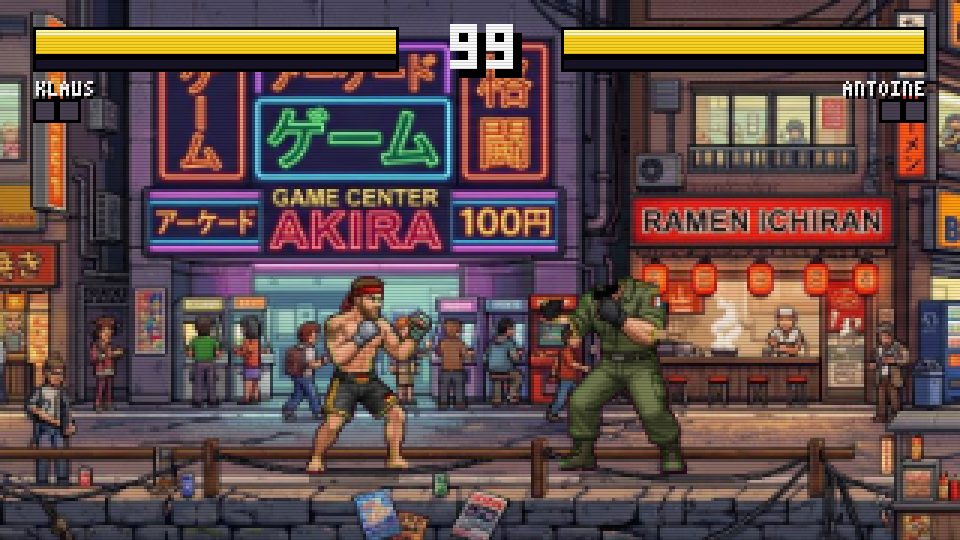
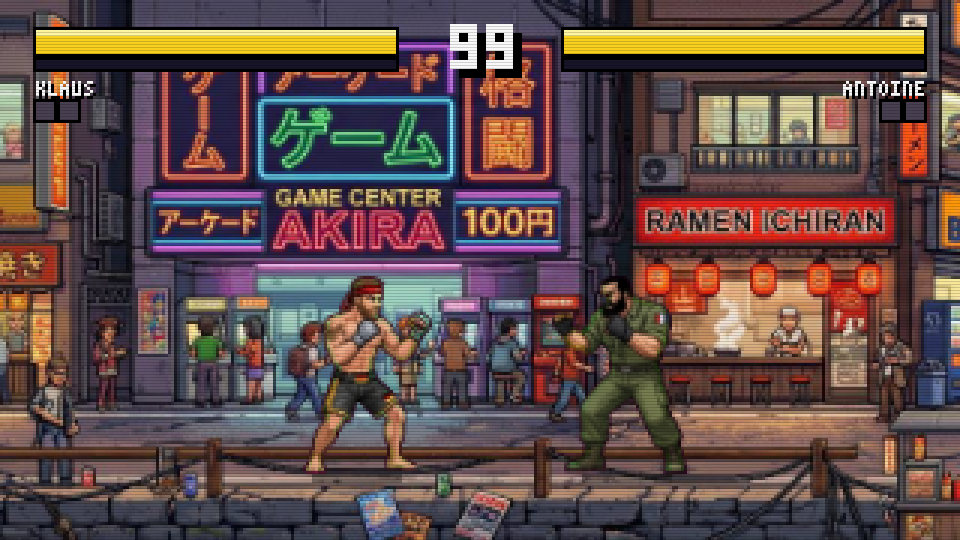
Measure "thinner than a limb" per sheet, not in fixed pixels
Antoine imported decapitated: every pose lost the top of his head at a
flat line across the hairline.

The importer tells a drawn frame line from a limb by eroding - whatever
dissolves was thin. That threshold was a constant five pixels. Generators
do not all draw at the same size, though, and Antoine's sheet is drawn
about half as thick as Klaus's and Maxim's: the erode that dissolves a 2px
box dissolved his head with it. A dissolved head then floats free of the
shoulders exactly like a box edge floats free of everything, so it was
condemned as a frame line and thrown away.

The threshold is measured per sheet now - the radius at which half the
artwork has eroded away, which tracks limb thickness and ignores how many
poses are on the sheet or how much of it is background. It comes out at 4
for Klaus, 3 for Antoine and 6 for Maxim.

Falling out of the same fix: Antoine has no projectile picture of his own.
His throw and the arc it leaves are one drawing in one box, and the old
threshold was eroding the arc enough to cut that one drawing into two
poses. His SHEET_ORDER loses the `fireballA` entry (23 poses -> 22) and he
keeps the drawn grenade, like Maxim keeps the drawn molotov.

sheet-test gains a check that every fighting stance still tapers to a
head. That is a property of any standing figure whatever the art, and it
is exactly the shape a decapitated import loses: the pose then starts at
the shoulders, its widest point. Antoine measured 0.57 of his widest row
[…]

diff --git a/dojo-duel/js/spritesheet.js b/dojo-duel/js/spritesheet.js
@@ -14,8 +14,8 @@ window.DD = window.DD || {};
   const STAND_H = 66;         // height of the fighting stance, in game pixels
   const TOL = 46;             // background color tolerance (0-255 per channel)
   const EDGE_BAND = 6;        // how far a soft edge may reach into the pose
-  const THIN = 5;             // anything thinner than this is a drawn line,
-                              // not a limb
+  const THIN_MIN = 3;         // anything thinner than this is a drawn line,
+  const THIN_MAX = 8;         // not a limb - measured per sheet, see thinness()
   const BRIDGE = 3;           // close gaps this wide when a removed line cut
                               // a pose in two - wide enough for a drawn rule
                               // even where it crosses a figure's shins,
@@ -32,9 +32,10 @@ window.DD = window.DD || {};
   // The roster sheets, in the order each generator laid them out. See the
   // pose list in assets/README.md; `null` is a frame no move uses.
   //
-  // `fireballA` is not a pose at all: two of the sheets carry the
-  // projectile itself as its own picture, which is exactly what the game
-  // needs and better than the hand-drawn one it replaces.
+  // `fireballA` is not a pose at all: Klaus's sheet carries the projectile
+  // itself as its own picture, which is exactly what the game needs and
+  // better than the hand-drawn one it replaces. The other two draw their
+  // effect into the throwing pose, so they keep the drawn projectile.
   const SHEET_ORDER = {
     klaus: [
       'idle0', 'idle1', 'walk1', 'run0', 'pun1', 'upp0', 'cpun0',
@@ -42,9 +43,12 @@ window.DD = window.DD || {};
       'crouch0', 'cblock0', 'block0', 'hurt0', 'kof0', 'win0', 'ko0',
       'grab0', 'lift0', 'slam0',
     ],
+    // Antoine's throw and the arc it leaves are one drawing in one box, so
+    // unlike Klaus he has no projectile picture of his own and keeps the
+    // drawn grenade.
     antoine: [
       'idle0', 'idle1', 'walk1', 'run0', 'pun1', 'upp0', 'cpun0',
-      'kick1', 'swp0', 'air0', 'rush0', 'sp1', 'fireballA', 'jmp1',
+      'kick1', 'swp0', 'air0', 'rush0', 'sp1', 'jmp1',
       'crouch0', 'block0', 'hurt0', 'kof0', 'win0', 'ko0',
       'grab0', 'lift0', 'slam0',
     ],
@@ -140,6 +144,32 @@ window.DD = window.DD || {};
   const erode = (m, w, h, r) => morph(m, w, h, r, true);
   const dilate = (m, w, h, r) => morph(m, w, h, r, false);
 
+  // How thick this sheet's artwork is drawn, as a radius.
+  //
+  // The tests below tell a drawn line from a limb by eroding: whatever
+  // dissolves was thin. That threshold cannot be a fixed number of pixels,
+  // because generators do not all draw at the same size. An erode wide
+  // enough to dissolve a 2px box on a sheet drawn large also dissolves a
+  // whole head on a sheet drawn small - and a head that has dissolved
+  // floats free of the shoulders exactly like a box edge floats free of
+  // everything, so it is condemned and the fighter comes out decapitated.
+  //
+  // Measured as the radius at which half the artwork has eroded away.
+  // That tracks limb thickness and does not care how many poses are on
+  // the sheet or how much of it is background.
+  function thinness(drawn, w, h) {
+    let full = 0;
+    for (let p = 0; p < w * h; p++) full += drawn[p];
+    if (!full) return THIN_MIN;
+    for (let r = THIN_MIN; r < THIN_MAX; r++) {
+      const e = erode(drawn, w, h, r);
+      let left = 0;
+      for (let p = 0; p < w * h; p++) left += e[p];
+      if (left * 2 < full) return r;
+    }
+    return THIN_MAX;
+  }
+
   // Drawn rules and boxes, found by shape rather than colour. Colour only
   // works when the generator picks something that contrasts with the art;
   // a dark box edge and a dark outline land in the same bucket, and then
@@ -200,8 +230,8 @@ window.DD = window.DD || {};
   // badly: a sheet whose box frames are drawn in the same dark tone as the
   // characters' own outlines condemns the outlines with the boxes, and
   // every figure falls apart into its interior colour patches.
-  function floatingLines(drawn, w, h) {
-    const thick = dilate(erode(drawn, w, h, THIN), w, h, THIN);
+  function floatingLines(drawn, w, h, thin) {
+    const thick = dilate(erode(drawn, w, h, thin), w, h, thin);
     const attached = dilate(thick, w, h, 3);
     const out = new Uint8Array(w * h);
     for (let p = 0; p < w * h; p++) out[p] = drawn[p] && !attached[p] ? 1 : 0;
@@ -216,8 +246,8 @@ window.DD = window.DD || {};
   // into its interior colour patches. Where a colour does both jobs there
   // is nothing to decide per colour, and the per-pixel test above stands
   // on its own.
-  function frameColors(data, drawn, w, h) {
-    const thick = dilate(erode(drawn, w, h, THIN), w, h, THIN);
+  function frameColors(data, drawn, w, h, r) {
+    const thick = dilate(erode(drawn, w, h, r), w, h, r);
     const attached = dilate(thick, w, h, 3);
     const bin = (i) => ((data[i] >> 3) << 10) | ((data[i + 1] >> 3) << 5) | (data[i + 2] >> 3);
     const N = 1 << 15;
@@ -271,9 +301,10 @@ window.DD = window.DD || {};
     // a colour used for nothing but lines condemns every last pixel of
     // itself, including the stretch of a box that runs close to a figure
     // and so looks attached.
-    const line = floatingLines(drawn, w, h);
+    const thin = thinness(drawn, w, h);
+    const line = floatingLines(drawn, w, h, thin);
     const rules = findRules(drawn, w, h);
-    const keys = frameColors(data, drawn, w, h);
+    const keys = frameColors(data, drawn, w, h, thin);
     for (let p = 0; p < w * h; p++) {
       if (rules[p] || (keys.length && isBg(data, p * 4, keys))) line[p] = 1;
       if (line[p]) drawn[p] = 0;
@@ -445,7 +476,7 @@ window.DD = window.DD || {};
     // side; a few pixels wide, it closes in a couple of passes and beats
     // both a magenta stripe and a transparent cut.
     if (left) {
-      for (let pass = 0; left && pass < THIN * 2; pass++) {
+      for (let pass = 0; left && pass < THIN_MAX * 2; pass++) {
         const fixed = [];
         for (let p = 0; p < iw * ih; p++) {
           if (!hole[p]) continue;
@@ -670,12 +701,14 @@ window.DD = window.DD || {};
         const bg = dominant(data);
         const drawn = new Uint8Array(w * h);
         for (let p = 0; p < w * h; p++) drawn[p] = isBg(data, p * 4, [bg]) ? 0 : 1;
-        const floating = floatingLines(drawn, w, h);
+        const thin = thinness(drawn, w, h);
+        const floating = floatingLines(drawn, w, h, thin);
         const rules = findRules(drawn, w, h);
-        const keys = frameColors(data, drawn, w, h);
+        const keys = frameColors(data, drawn, w, h, thin);
         let f = 0, r = 0;
         for (let p = 0; p < w * h; p++) { f += floating[p]; r += rules[p]; }
-        resolve({ field: bg, floatingLinePixels: f, rulePixels: r, lineColors: keys });
+        resolve({ field: bg, thinness: thin, floatingLinePixels: f,
+                  rulePixels: r, lineColors: keys });
       };
       img.onerror = reject;
       img.src = url;

diff --git a/dojo-duel/tools/sheet-test.js b/dojo-duel/tools/sheet-test.js
@@ -131,6 +131,47 @@ function check(name, cond, extra) {
     `kept ${(enclosed.share * 100).toFixed(1)}%, expected about ` +
     `${((1 - enclosed.notchShare) * 100).toFixed(1)}%`);
 
+  // --- every fighter still has a head --------------------------------------
+  // The tests that tell a drawn line from a limb work by eroding, and the
+  // threshold cannot be an absolute number of pixels: generators do not
+  // all draw at the same size. An erode wide enough to dissolve a 2px box
+  // on a sheet drawn large also dissolves a head on one drawn small - and
+  // a dissolved head floats free of the shoulders exactly like a box edge
+  // floats free of everything, so it is condemned and the fighter imports
+  // decapitated.
+  //
+  // The tell is shape, and it holds for any standing figure whatever the
+  // art: a fighter tapers to a head, so the top of the pose is far
+  // narrower than the shoulders. Start the pose *at* the shoulders and
+  // that ratio jumps - Antoine went from 0.25 to 0.57 the day this broke.
+  const heads = await p.evaluate(async () => {
+    const out = {};
+    for (const name of Object.keys(window.DD.spritesheet.SHEET_ORDER)) {
+      const frames = await window.DD.spritesheet.inspect(`assets/${name}.png`);
+      const f = frames[0];                       // the fighting stance
+      const t = document.createElement('canvas');
+      t.width = f.width; t.height = f.height;
+      const c = t.getContext('2d', { willReadFrequently: true });
+      c.drawImage(f, 0, 0);
+      const d = c.getImageData(0, 0, f.width, f.height).data;
+      const rowW = [];
+      for (let y = 0; y < f.height; y++) {
+        let lo = -1, hi = -1;
+        for (let x = 0; x < f.width; x++) {
+          if (d[(y * f.width + x) * 4 + 3] > 128) { if (lo < 0) lo = x; hi = x; }
+        }
+        rowW.push(lo < 0 ? 0 : hi - lo + 1);
+      }
+      const band = Math.max(1, Math.round(f.height * 0.1));
+      out[name] = +(Math.max(...rowW.slice(0, band)) / Math.max(...rowW)).toFixed(2);
+    }
+    return out;
+  });
+  for (const [name, ratio] of Object.entries(heads)) {
+    check(`${name}: the fighting stance tapers to a head`, ratio <= 0.5,
+      `top of the pose is ${ratio} of its widest row`);
+  }
+
   // --- a ground rule under each row ----------------------------------------
   // Some sheets come back with a line under every row of poses instead of a
   // box around each one. Every figure stands on it, so it welds the row

diff --git a/dojo-duel/README.md b/dojo-duel/README.md
@@ -109,7 +109,9 @@ a K.O.
     ![Klaus frames](docs/screenshots/klaus-frames.png)
   - **ANTOINE MOREAU** (judo/GIGN, France): heavier, olive uniform with
     rolled-up sleeves, French flag patch on the shoulder, fingerless
-    gloves, heavy boots, full beard. His special hurls a **grenade**.
+    gloves, heavy boots, full beard. Drawn smaller and finer than the other
+    two, which is what caught the importer out (see below). His special
+    hurls a **grenade**.
     ![Antoine frames](docs/screenshots/antoine-frames.png)
   - **MAXIM** (the old man, and the one you underestimate): field jacket,
     grey beard, a bottle in his fist in every single pose. His special
@@ -118,10 +120,10 @@ a K.O.
   - **HANZO**, the karate fighter from the first prototype, remains as a
     bonus set (the roster itself is a list in `js/constants.js`)
 
-  Each sheet carries 23 to 24 poses and all of them are on screen — the
+  Each sheet carries 22 to 24 poses and all of them are on screen — the
   grab, the lift and the slam included, so a throw is drawn rather than
-  borrowed from another move. Two of the sheets even carry the projectile
-  as a picture of its own, which is what the game puts in the air.
+  borrowed from another move. Klaus's sheet even carries his fireball as a
+  picture of its own, and that is what the game puts in the air.
 - **Single-player vs CPU** (the AI keeps its distance, blocks, dodges
   projectiles — and is deliberately beatable) plus **local two-player
   mode** on one keyboard
@@ -238,6 +240,17 @@ a limb, and it floats free of any body. Both tests together separate it
 from the gold trim on a pair of trunks, which is every bit as thin but
 never floats. Where a line was drawn *across* a figure, the slit it leaves
 is painted over from the artwork on either side.
+
+*"Thinner than a limb" is not a fixed number.* Generators do not all draw
+at the same size, and "erase everything thinner than a limb" needs to know
+how thick this sheet's limbs are. An erase wide enough to dissolve a 2px
+box on a sheet drawn large also dissolves a head on a sheet drawn small —
+and a dissolved head floats free of the shoulders exactly like a box edge
+floats free of everything, so it is condemned and the fighter imports
+decapitated. Antoine's sheet is drawn about half as thick as the other
+two, and that is precisely what happened to him. The threshold is measured
+per sheet now: the radius at which half the artwork has eroded away, which
+tracks limb thickness and ignores everything else.
 
 *The background is not one color.* The field itself is read as the most
 common color in the sheet rather than off the corners, because a grid

diff --git a/dojo-duel/ROADMAP.md b/dojo-duel/ROADMAP.md
@@ -210,10 +210,10 @@ implements. Every milestone ends in a playable build.
 **All three sheets regenerated at 23-24 poses**
 - [x] The throw is drawn — grab, lift, slam — instead of borrowing the
       special's wind-up (closes the M4 package 4 art gap)
-- [x] Klaus and Antoine carry their projectile as a picture of its own, so
-      the thing in the air is drawn art rather than a code grid. Maxim's
-      bottle is drawn into his throwing pose, so his molotov is a grid —
-      redrawn at the size his own sheet draws it
+- [x] Klaus carries his fireball as a picture of its own, so the thing in
+      the air is drawn art rather than a code grid. Antoine and Maxim draw
+      their effect into the throwing pose, so their grenade and molotov
+      stay grids — the molotov redrawn at the size his sheet draws it
 - [x] Klaus has a kneeling guard, used when he blocks low. A sheet without
       one falls back to the plain crouch, so the pose is optional
 - [x] The pink-lined dash pose is gone from the new sheets; nothing on any
@@ -230,8 +230,20 @@ implements. Every milestone ends in a playable build.
 - [x] The background found by flooding in from the outside, so the key
       colour walled in *inside* a drawing survives while the same colour
       reaching in from the edge is removed
+- [x] "Thinner than a limb" is measured per sheet instead of being a fixed
+      number of pixels. It was fixed, and Antoine's sheet is drawn about
+      half as thick as the other two — so the erase that dissolves a 2px
+      box dissolved his head, which then floated free of his shoulders
+      exactly like a box edge and was thrown away with them. He imported
+      decapitated in every pose. The threshold is now the radius at which
+      half the artwork has eroded away
+- [x] Antoine has no projectile picture after all: his throw and the arc it
+      leaves are one drawing in one box, and the old code was cutting that
+      one drawing into two poses. He keeps the drawn grenade
 - [x] `tools/sheet-test.js` covers all of it, including a light background
-      — one sheet came back on white
+      — one sheet came back on white — and asserts that every fighting
+      stance still tapers to a head, which is the shape a decapitated
+      import loses
 
 ### M6 – Sound & music
 - [ ] Chiptune tracks per stage (WebAudio sequencer), more SFX variants
